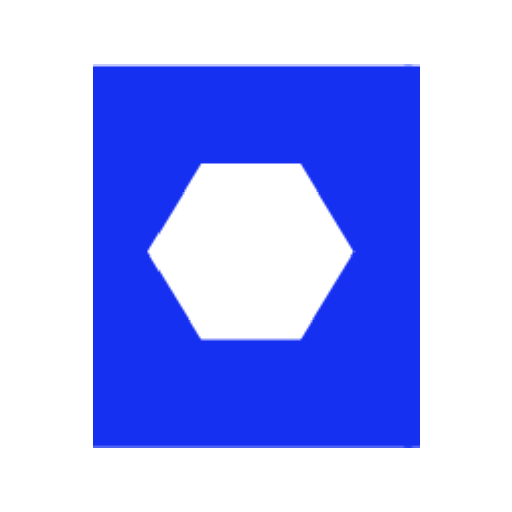
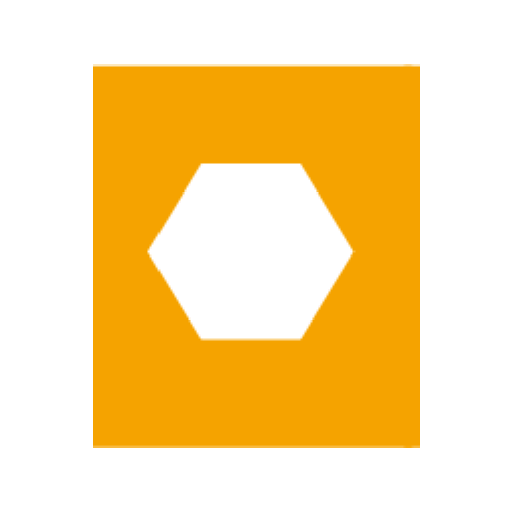
Apply the honey amber colour scheme
- Page: warm cream; text: dark warm brown; accent: honey amber (#F5A300) with dark text on amber buttons
- Chips and highlights in pale amber with dark amber-brown text
- Logo, favicon and app icons recoloured to amber; share cards recoloured
- Fallback poster art in warm tints; amber glow on primary buttons

diff --git a/front/src/app/page.tsx b/front/src/app/page.tsx
@@ -78,12 +78,12 @@ export default async function Home() {
                   <li key={k} className="flex flex-col gap-3 sm:flex-row sm:items-start sm:gap-6">
                     <span className="inline-flex w-fit shrink-0 items-center rounded-2xl bg-chip px-5 py-3 text-lg font-medium text-chip-ink sm:w-36 sm:justify-center">{formatDay(k)}</span>
                     <p className="pt-1 text-lg leading-relaxed">
-                      {list.map((e, i) => <span key={e.id}><Link href={`/events/${e.id}`} className="font-medium transition hover:text-brand hover:underline">{e.title}</Link>{i < list.length - 1 ? ", " : ""}</span>)}
+                      {list.map((e, i) => <span key={e.id}><Link href={`/events/${e.id}`} className="font-medium transition hover:text-chip-ink hover:underline">{e.title}</Link>{i < list.length - 1 ? ", " : ""}</span>)}
                     </p>
                   </li>
                 ))}
               </ul>
-              <div className="mt-8"><Link href="/events" className="inline-flex items-center gap-2 font-semibold text-brand">See the full calendar <ArrowRight className="h-4 w-4" /></Link></div>
+              <div className="mt-8"><Link href="/events" className="inline-flex items-center gap-2 font-semibold text-chip-ink">See the full calendar <ArrowRight className="h-4 w-4" /></Link></div>
             </section>
           </Reveal>
         )}
@@ -102,7 +102,7 @@ export default async function Home() {
         {/* Featured fests */}
         {(fests ?? []).length > 0 && (
           <section className="card p-6 sm:p-10">
-            <div className="mb-6 flex items-end justify-between gap-4"><h2 className="font-display text-3xl font-semibold tracking-tight sm:text-4xl">Fests on HiveOut</h2><Link href="/fests" className="hidden items-center gap-1 font-semibold text-brand sm:flex">All fests <ArrowRight className="h-4 w-4" /></Link></div>
+            <div className="mb-6 flex items-end justify-between gap-4"><h2 className="font-display text-3xl font-semibold tracking-tight sm:text-4xl">Fests on HiveOut</h2><Link href="/fests" className="hidden items-center gap-1 font-semibold text-chip-ink sm:flex">All fests <ArrowRight className="h-4 w-4" /></Link></div>
             <Stagger className="grid grid-cols-2 gap-4 md:grid-cols-3 lg:grid-cols-4">
               {(fests ?? []).slice(0, 8).map((f) => <StaggerItem key={f.id}><FestPoster fest={f} college={collegeName(f.college_id)} /></StaggerItem>)}
             </Stagger>
@@ -118,7 +118,7 @@ export default async function Home() {
             <section className="card overflow-hidden p-6 sm:p-10">
               <h2 className="font-display text-3xl font-semibold tracking-tight sm:text-4xl">Colleges on HiveOut</h2>
               <div className="mt-6"><Marquee items={colleges.map((c) => c.name)} /></div>
-              <div className="mt-6 flex flex-wrap gap-2.5">{colleges.map((c) => <Link key={c.id} href={`/fests?college=${c.id}`} className="inline-flex items-center gap-2 rounded-full bg-wash px-4 py-2 text-sm font-medium transition hover:bg-chip hover:text-chip-ink"><Building2 className="h-4 w-4 text-brand" />{c.name}</Link>)}</div>
+              <div className="mt-6 flex flex-wrap gap-2.5">{colleges.map((c) => <Link key={c.id} href={`/fests?college=${c.id}`} className="inline-flex items-center gap-2 rounded-full bg-wash px-4 py-2 text-sm font-medium transition hover:bg-chip hover:text-chip-ink"><Building2 className="h-4 w-4 text-chip-ink" />{c.name}</Link>)}</div>
             </section>
           </Reveal>
         )}
@@ -135,11 +135,11 @@ export default async function Home() {
                 { name: "City events", price: "Soon", points: ["Concerts and gigs", "Same HiveOut account", "Coming after fests"], cta: "Stay tuned", href: "/events", main: false },
               ].map((p) => (
                 <StaggerItem key={p.name}>
-                  <div className={`flex h-full flex-col rounded-3xl p-7 ${p.main ? "bg-brand text-white shadow-[var(--shadow-glow)]" : "bg-wash"}`}>
-                    <p className={`text-sm font-semibold ${p.main ? "text-white/80" : "text-chip-ink"}`}>{p.name}</p>
+                  <div className={`flex h-full flex-col rounded-3xl p-7 ${p.main ? "bg-brand text-on-brand shadow-[var(--shadow-glow)]" : "bg-wash"}`}>
+                    <p className={`text-sm font-semibold ${p.main ? "text-on-brand/80" : "text-chip-ink"}`}>{p.name}</p>
                     <p className="mt-1 font-display text-5xl font-semibold tracking-tight">{p.price}</p>
-                    <ul className="mt-6 flex-1 space-y-3">{p.points.map((pt) => <li key={pt} className="flex items-center gap-2.5"><Check className={`h-4 w-4 ${p.main ? "text-white" : "text-brand"}`} />{pt}</li>)}</ul>
-                    <Link href={p.href} className={`mt-8 inline-flex h-12 items-center justify-center rounded-full text-[0.9375rem] font-semibold transition active:scale-[0.97] ${p.main ? "bg-white text-brand hover:bg-chip" : "bg-white text-ink shadow-[var(--shadow-card)] hover:bg-chip"}`}>{p.cta}</Link>
+                    <ul className="mt-6 flex-1 space-y-3">{p.points.map((pt) => <li key={pt} className="flex items-center gap-2.5"><Check className={`h-4 w-4 ${p.main ? "text-on-brand" : "text-chip-ink"}`} />{pt}</li>)}</ul>
+                    <Link href={p.href} className={`mt-8 inline-flex h-12 items-center justify-center rounded-full text-[0.9375rem] font-semibold transition active:scale-[0.97] ${p.main ? "bg-white text-chip-ink hover:bg-chip" : "bg-white text-ink shadow-[var(--shadow-card)] hover:bg-chip"}`}>{p.cta}</Link>
                   </div>
                 </StaggerItem>
               ))}
@@ -157,14 +157,14 @@ export default async function Home() {
 
         {/* Final CTA */}
         <Reveal>
-          <section className="dots relative overflow-hidden rounded-[1.5rem] bg-brand px-6 py-16 text-center text-white shadow-[var(--shadow-glow)]">
+          <section className="dots relative overflow-hidden rounded-[1.5rem] bg-brand px-6 py-16 text-center text-on-brand shadow-[var(--shadow-glow)]">
             <div className="absolute inset-0 bg-brand/95" aria-hidden />
             <div className="relative">
               <h2 className="mx-auto max-w-2xl font-display text-4xl font-semibold leading-[1.05] tracking-tight sm:text-6xl">Join us this fest season</h2>
-              <p className="mx-auto mt-4 max-w-md text-lg text-white/80">Get your free pass and never miss an event.</p>
+              <p className="mx-auto mt-4 max-w-md text-lg text-on-brand/80">Get your free pass and never miss an event.</p>
               <div className="mt-8 flex flex-wrap justify-center gap-3">
-                <Link href="/signup" className="inline-flex h-14 items-center rounded-full bg-white px-8 font-semibold text-brand transition hover:bg-chip active:scale-[0.97]">Join free</Link>
-                <Link href="/fests" className="inline-flex h-14 items-center rounded-full bg-white/15 px-8 font-semibold text-white ring-1 ring-white/40 transition hover:bg-white/25 active:scale-[0.97]">Explore fests</Link>
+                <Link href="/signup" className="inline-flex h-14 items-center rounded-full bg-white px-8 font-semibold text-chip-ink transition hover:bg-chip active:scale-[0.97]">Join free</Link>
+                <Link href="/fests" className="inline-flex h-14 items-center rounded-full bg-black/10 px-8 font-semibold text-on-brand ring-1 ring-black/20 transition hover:bg-black/15 active:scale-[0.97]">Explore fests</Link>
               </div>
             </div>
           </section>

diff --git a/front/src/components/shell/TopBar.tsx b/front/src/components/shell/TopBar.tsx
@@ -52,7 +52,7 @@ export function TopBar() {
 
           <nav aria-label="Main" className="relative hidden rounded-full bg-white/80 p-1 shadow-[var(--shadow-card)] backdrop-blur-xl md:flex">
             {NAV.map((l) => (
-              <Link key={l.href} href={l.href} className={`relative rounded-full px-5 py-2 text-sm font-medium transition-colors ${active(l.href) ? "text-brand" : "text-mute hover:text-ink"}`}>
+              <Link key={l.href} href={l.href} className={`relative rounded-full px-5 py-2 text-sm font-medium transition-colors ${active(l.href) ? "text-chip-ink" : "text-mute hover:text-ink"}`}>
                 {active(l.href) && <motion.span layoutId="nav-pill" className="absolute inset-0 rounded-full bg-chip" transition={{ type: "spring", stiffness: 420, damping: 34 }} />}
                 <span className="relative">{l.label}</span>
               </Link>
@@ -63,7 +63,7 @@ export function TopBar() {
             <button onClick={() => setSearch(true)} aria-label="Search" className={round}><Search className="h-[18px] w-[18px]" /></button>
             {loading ? <div className="h-11 w-11" /> : user ? (
               <div className="relative hidden md:block" ref={menuRef}>
-                <button onClick={() => setMenu((v) => !v)} aria-haspopup="menu" aria-expanded={menu} aria-label="Account menu" className="flex h-11 w-11 items-center justify-center rounded-2xl bg-brand text-sm font-semibold text-white shadow-[var(--shadow-glow)] transition active:scale-95">{user.name.trim().charAt(0).toUpperCase()}</button>
+                <button onClick={() => setMenu((v) => !v)} aria-haspopup="menu" aria-expanded={menu} aria-label="Account menu" className="flex h-11 w-11 items-center justify-center rounded-2xl bg-brand text-sm font-semibold text-on-brand shadow-[var(--shadow-glow)] transition active:scale-95">{user.name.trim().charAt(0).toUpperCase()}</button>
                 <AnimatePresence>
                   {menu && (
                     <motion.div role="menu" initial={{ opacity: 0, y: -6, scale: 0.96 }} animate={{ opacity: 1, y: 0, scale: 1 }} exit={{ opacity: 0, y: -6, scale: 0.96 }} transition={{ duration: 0.15 }} style={{ transformOrigin: "top right" }} className="glass absolute right-0 mt-2 w-60 rounded-2xl p-1.5 shadow-[var(--shadow-pop)]">
@@ -90,7 +90,7 @@ export function TopBar() {
         <AnimatePresence>
           {sheet && (
             <motion.div initial={{ opacity: 0, y: -10, scale: 0.98 }} animate={{ opacity: 1, y: 0, scale: 1 }} exit={{ opacity: 0, y: -10, scale: 0.98 }} transition={{ duration: 0.2 }} className="glass mx-auto mt-3 max-w-7xl rounded-3xl p-3 shadow-[var(--shadow-pop)] md:hidden">
-              {NAV.map((l) => <Link key={l.href} href={l.href} className={`block rounded-2xl px-4 py-3.5 text-lg font-medium ${active(l.href) ? "bg-chip text-brand" : ""}`}>{l.label}</Link>)}
+              {NAV.map((l) => <Link key={l.href} href={l.href} className={`block rounded-2xl px-4 py-3.5 text-lg font-medium ${active(l.href) ? "bg-chip text-chip-ink" : ""}`}>{l.label}</Link>)}
               <div className="my-2 border-t border-black/5" />
               {user ? (
                 <>

diff --git a/front/src/app/globals.css b/front/src/app/globals.css
@@ -4,22 +4,23 @@
   --font-sans: var(--font-inter), ui-sans-serif, system-ui, sans-serif;
   --font-display: var(--font-outfit), var(--font-inter), ui-sans-serif, system-ui, sans-serif;
 
-  --color-ink: #1b1a3a;
-  --color-mute: #7a7a8c;
-  --color-fog: #eeeef5;
-  --color-wash: #f4f4fa;
-  --color-brand: #1530f0;
-  --color-brand-deep: #0f24c9;
-  --color-chip: #e3e6fd;
-  --color-chip-ink: #2330c9;
+  --color-ink: #26210f;
+  --color-mute: #756b4a;
+  --color-fog: #fbf5e6;
+  --color-wash: #f8f1de;
+  --color-brand: #f5a300;
+  --color-brand-deep: #dc9000;
+  --color-on-brand: #2a1e00;
+  --color-chip: #ffebb8;
+  --color-chip-ink: #7a4e00;
   --color-mint: #dcf5e7;
-  --color-lilac: #e3e6fd;
+  --color-lilac: #ffebb8;
 
   --radius-card: 1.5rem;
-  --shadow-card: 0 1px 2px rgba(27, 26, 58, 0.04), 0 10px 30px rgba(27, 26, 58, 0.06);
-  --shadow-soft: 0 1px 2px rgba(27, 26, 58, 0.05), 0 6px 18px rgba(27, 26, 58, 0.07);
-  --shadow-pop: 0 24px 60px rgba(27, 26, 58, 0.18);
-  --shadow-glow: 0 10px 30px rgba(21, 48, 240, 0.35);
+  --shadow-card: 0 1px 2px rgba(38, 33, 15, 0.04), 0 10px 30px rgba(38, 33, 15, 0.07);
+  --shadow-soft: 0 1px 2px rgba(38, 33, 15, 0.05), 0 6px 18px rgba(38, 33, 15, 0.08);
+  --shadow-pop: 0 24px 60px rgba(38, 33, 15, 0.2);
+  --shadow-glow: 0 10px 30px rgba(245, 163, 0, 0.4);
 }
 
 html { scroll-behavior: smooth; }
@@ -28,7 +29,7 @@ body { background: var(--color-fog); color: var(--color-ink); font-family: var(-
 
 @layer components {
   .card { background: #fff; border-radius: var(--radius-card); box-shadow: var(--shadow-card); }
-  .dots { background-image: radial-gradient(rgba(27, 26, 58, 0.14) 1.2px, transparent 1.2px); background-size: 22px 22px; }
+  .dots { background-image: radial-gradient(rgba(38, 33, 15, 0.14) 1.2px, transparent 1.2px); background-size: 22px 22px; }
   .glass { background: rgba(255, 255, 255, 0.62); -webkit-backdrop-filter: blur(22px) saturate(170%); backdrop-filter: blur(22px) saturate(170%); border: 1px solid rgba(255, 255, 255, 0.7); }
   .glass-bar { background: rgba(255, 255, 255, 0.72); -webkit-backdrop-filter: blur(24px) saturate(180%); backdrop-filter: blur(24px) saturate(180%); border-bottom: 1px solid rgba(0, 0, 0, 0.06); }
   /* Frosted panel that sits on top of photos and posters */
@@ -37,7 +38,7 @@ body { background: var(--color-fog); color: var(--color-ink); font-family: var(-
   .no-scrollbar { scrollbar-width: none; }
   .no-scrollbar::-webkit-scrollbar { display: none; }
   .field { width: 100%; border-radius: 0.9rem; border: 1px solid rgba(0, 0, 0, 0.12); background: #fff; padding: 0.8rem 1rem; font-size: 0.95rem; outline: none; transition: box-shadow 0.15s, border-color 0.15s; }
-  .field:focus { border-color: var(--color-brand); box-shadow: 0 0 0 4px rgba(21, 48, 240, 0.18); }
+  .field:focus { border-color: var(--color-brand); box-shadow: 0 0 0 4px rgba(245, 163, 0, 0.3); }
   .field::placeholder { color: #9a9aa0; }
 }
 

diff --git a/front/src/app/events/[id]/page.tsx b/front/src/app/events/[id]/page.tsx
@@ -48,7 +48,7 @@ export default async function EventPage({ params }: Props) {
             {event.location && <InfoChip icon={<MapPin className="h-4 w-4" />}>{event.location}</InfoChip>}
           </FadeUp>
           <FadeUp delay={0.08}><h1 className="mt-7 font-display text-5xl font-semibold leading-[1.02] tracking-[-0.03em] sm:text-7xl">{event.title}</h1></FadeUp>
-          {event.fest_slug && <FadeUp delay={0.14}><p className="mt-5 text-lg text-mute">Part of <Link href={`/fest/${event.fest_slug}`} className="font-semibold text-brand hover:underline">{event.fest_name}</Link>{event.college_name ? ` · ${event.college_name}` : ""}</p></FadeUp>}
+          {event.fest_slug && <FadeUp delay={0.14}><p className="mt-5 text-lg text-mute">Part of <Link href={`/fest/${event.fest_slug}`} className="font-semibold text-chip-ink hover:underline">{event.fest_name}</Link>{event.college_name ? ` · ${event.college_name}` : ""}</p></FadeUp>}
           <FadeUp delay={0.2} className="mt-8 flex justify-center"><ShareButtons title={event.title} calendar={{ title: event.title, date: event.date, time: event.time, location: event.location, description: event.description }} /></FadeUp>
         </div>
       </section>
@@ -65,7 +65,7 @@ export default async function EventPage({ params }: Props) {
                   {facts.map(({ icon: Icon, label, value }) => (
                     <div key={label} className="flex items-start gap-3 rounded-2xl bg-wash p-4">
                       <span className="flex h-10 w-10 shrink-0 items-center justify-center rounded-xl bg-chip text-chip-ink"><Icon className="h-4 w-4" /></span>
-                      <div className="min-w-0"><dt className="text-xs font-medium text-mute">{label}</dt><dd className="font-semibold leading-snug">{value}{label === "Venue" && event.location && <a href={mapsLink(event.location, event.college_name)} target="_blank" rel="noopener noreferrer" className="ml-2 text-sm font-medium text-brand underline underline-offset-2">Map</a>}</dd></div>
+                      <div className="min-w-0"><dt className="text-xs font-medium text-mute">{label}</dt><dd className="font-semibold leading-snug">{value}{label === "Venue" && event.location && <a href={mapsLink(event.location, event.college_name)} target="_blank" rel="noopener noreferrer" className="ml-2 text-sm font-medium text-chip-ink underline underline-offset-2">Map</a>}</dd></div>
                     </div>
                   ))}
                 </dl>

diff --git a/front/src/components/EventExplorer.tsx b/front/src/components/EventExplorer.tsx
@@ -55,13 +55,13 @@ export function EventExplorer({ events, initial }: { events: FestEvent[]; initia
       <div className="card mb-5 space-y-4 p-4 sm:p-6">
       <div className="flex items-center gap-3">
         <label className="flex h-14 min-w-0 flex-1 items-center gap-3 rounded-full bg-wash px-5 focus-within:ring-4 focus-within:ring-brand/25">
-          <Search className="h-5 w-5 text-brand" />
+          <Search className="h-5 w-5 text-chip-ink" />
           <input value={q} onChange={(e) => setQ(e.target.value)} placeholder="Search events, venues or fests" aria-label="Search events" className="h-full min-w-0 flex-1 bg-transparent text-base outline-none placeholder:text-neutral-400" />
           {q && <button onClick={() => setQ("")} aria-label="Clear search" className="rounded-full p-1 hover:bg-wash"><X className="h-4 w-4" /></button>}
         </label>
         <div className="flex shrink-0 rounded-full bg-chip p-1" role="group" aria-label="View">
           {([["list", List, "List view"], ["grid", LayoutGrid, "Poster view"]] as const).map(([v, Icon, label]) => (
-            <button key={v} onClick={() => setView(v)} aria-pressed={view === v} aria-label={label} className={`flex h-10 w-10 items-center justify-center rounded-full transition sm:h-12 sm:w-12 ${view === v ? "bg-white text-brand shadow-[var(--shadow-card)]" : "text-chip-ink/70"}`}><Icon className="h-5 w-5" /></button>
+            <button key={v} onClick={() => setView(v)} aria-pressed={view === v} aria-label={label} className={`flex h-10 w-10 items-center justify-center rounded-full transition sm:h-12 sm:w-12 ${view === v ? "bg-white text-chip-ink shadow-[var(--shadow-card)]" : "text-chip-ink/70"}`}><Icon className="h-5 w-5" /></button>
           ))}
         </div>
       </div>
@@ -76,7 +76,7 @@ export function EventExplorer({ events, initial }: { events: FestEvent[]; initia
 
       <p className="mb-5 mt-6 text-sm text-mute" aria-live="polite">
         {shown.length} event{shown.length === 1 ? "" : "s"}{date ? ` on ${formatLongDay(date)}` : ""}
-        {active && <button onClick={clear} className="ml-3 font-semibold text-brand underline underline-offset-4">Clear filters</button>}
+        {active && <button onClick={clear} className="ml-3 font-semibold text-chip-ink underline underline-offset-4">Clear filters</button>}
       </p>
 
       {shown.length === 0 ? (

diff --git a/front/src/components/AuthForm.tsx b/front/src/components/AuthForm.tsx
@@ -40,13 +40,13 @@ export function AuthForm({ mode, next }: { mode: "login" | "signup"; next?: stri
 
   return (
     <div className="mx-auto grid min-h-[calc(100vh-4rem)] max-w-7xl gap-6 px-5 py-6 sm:px-8 lg:grid-cols-2">
-      <motion.aside initial={{ opacity: 0, x: -20 }} animate={{ opacity: 1, x: 0 }} transition={{ duration: 0.6 }} className="relative hidden overflow-hidden rounded-[2rem] bg-gradient-to-br from-brand via-blue-600 to-indigo-500 p-12 lg:flex lg:flex-col lg:justify-between">
+      <motion.aside initial={{ opacity: 0, x: -20 }} animate={{ opacity: 1, x: 0 }} transition={{ duration: 0.6 }} className="relative hidden overflow-hidden rounded-[2rem] bg-gradient-to-br from-brand via-amber-400 to-orange-300 p-12 lg:flex lg:flex-col lg:justify-between">
         <svg className="absolute -right-16 -top-16 h-96 w-96 opacity-20" viewBox="0 0 100 115" aria-hidden><path d="M50 4 94 29v57L50 111 6 86V29z" fill="none" stroke="#fff" strokeWidth="2" /><path d="M50 24 76 39v37L50 91 24 76V39z" fill="none" stroke="#fff" strokeWidth="2" /></svg>
         <svg className="absolute -bottom-20 -left-10 h-80 w-80 opacity-20" viewBox="0 0 100 115" aria-hidden><path d="M50 4 94 29v57L50 111 6 86V29z" fill="#fff" /></svg>
-        <p className="relative text-sm font-semibold text-white/80">HiveOut</p>
+        <p className="relative text-sm font-semibold text-on-brand/80">HiveOut</p>
         <div className="relative">
-          <h2 className="font-display text-5xl font-bold leading-[1.02] tracking-[-0.02em] text-white">Your fest season starts here.</h2>
-          <ul className="mt-8 space-y-4">{PERKS.map(({ icon: Icon, text }) => <li key={text} className="flex items-center gap-3 font-medium text-white"><span className="flex h-10 w-10 items-center justify-center rounded-xl bg-white/20"><Icon className="h-5 w-5" /></span>{text}</li>)}</ul>
+          <h2 className="font-display text-5xl font-bold leading-[1.02] tracking-[-0.02em] text-on-brand">Your fest season starts here.</h2>
+          <ul className="mt-8 space-y-4">{PERKS.map(({ icon: Icon, text }) => <li key={text} className="flex items-center gap-3 font-medium text-on-brand"><span className="flex h-10 w-10 items-center justify-center rounded-xl bg-white/40"><Icon className="h-5 w-5" /></span>{text}</li>)}</ul>
         </div>
       </motion.aside>
 

diff --git a/front/src/components/EntryPassPanel.tsx b/front/src/components/EntryPassPanel.tsx
@@ -30,19 +30,19 @@ export function EntryPassPanel({ slug, name, isLive }: { slug: string; name: str
   };
 
   return (
-    <div id="pass" className="rounded-3xl bg-brand p-8 text-white shadow-[var(--shadow-glow)] sm:p-10">
-      <p className="text-sm font-semibold text-white/80">Fest pass</p>
+    <div id="pass" className="rounded-3xl bg-brand p-8 text-on-brand shadow-[var(--shadow-glow)] sm:p-10">
+      <p className="text-sm font-semibold text-on-brand/80">Fest pass</p>
       <p className="mt-1 font-display text-6xl font-semibold tracking-tight">Free</p>
-      <p className="mt-2 text-white/80">{name}</p>
+      <p className="mt-2 text-on-brand/80">{name}</p>
       <ul className="mt-6 space-y-3">{["Entry to the fest with a QR code", "Register for any event", "Keep every pass in one place"].map((t) => <li key={t} className="flex items-center gap-2.5"><Check className="h-4 w-4" />{t}</li>)}</ul>
       <div className="mt-8 space-y-3">
         <ErrorNote>{error}</ErrorNote>
         {loading ? <div className="h-14 animate-pulse rounded-full bg-white/20" /> : pass ? (
-          <Button href="/my-passes" variant="outline" size="lg" className="w-full !text-brand">You have your pass. View it</Button>
+          <Button href="/my-passes" variant="outline" size="lg" className="w-full !text-chip-ink">You have your pass. View it</Button>
         ) : user ? (
-          <Button onClick={claim} disabled={busy} variant="outline" size="lg" className="w-full !text-brand">{busy ? "Getting pass…" : "Get my free pass"}</Button>
+          <Button onClick={claim} disabled={busy} variant="outline" size="lg" className="w-full !text-chip-ink">{busy ? "Getting pass…" : "Get my free pass"}</Button>
         ) : (
-          <Button href={`/login?next=${encodeURIComponent(`/fest/${slug}`)}`} variant="outline" size="lg" className="w-full !text-brand">Sign in to get it</Button>
+          <Button href={`/login?next=${encodeURIComponent(`/fest/${slug}`)}`} variant="outline" size="lg" className="w-full !text-chip-ink">Sign in to get it</Button>
         )}
       </div>
     </div>

diff --git a/front/src/app/fest/[slug]/page.tsx b/front/src/app/fest/[slug]/page.tsx
@@ -48,7 +48,7 @@ export default async function FestPage({ params }: Props) {
           <FadeUp delay={0.08}><h1 className="mt-7 font-display text-5xl font-semibold leading-[1.02] tracking-[-0.03em] sm:text-7xl lg:text-8xl">{fest.name}</h1></FadeUp>
           {fest.tagline && <FadeUp delay={0.14}><p className="mx-auto mt-5 max-w-xl text-lg leading-relaxed text-mute">{fest.tagline}</p></FadeUp>}
           <FadeUp delay={0.2} className="mt-8 flex flex-wrap items-center justify-center gap-3">
-            {fest.status === "live" && <a href="#pass" className="inline-flex h-14 items-center gap-3 rounded-full bg-brand px-8 text-base font-semibold text-white shadow-[var(--shadow-glow)] transition hover:bg-brand-deep active:scale-[0.97]">Get your pass <Ticket className="h-5 w-5" /></a>}
+            {fest.status === "live" && <a href="#pass" className="inline-flex h-14 items-center gap-3 rounded-full bg-brand px-8 text-base font-semibold text-on-brand shadow-[var(--shadow-glow)] transition hover:bg-brand-deep active:scale-[0.97]">Get your pass <Ticket className="h-5 w-5" /></a>}
             <ShareButtons title={fest.name} />
           </FadeUp>
         </div>
@@ -71,7 +71,7 @@ export default async function FestPage({ params }: Props) {
               {venues.length === 0 ? <p className="mt-3 text-mute">Venues will be announced with the programme.</p> : (
                 <ul className="mt-5 space-y-3">{venues.map((v) => <li key={v} className="flex items-center gap-3 rounded-2xl bg-wash px-4 py-3"><span className="flex h-9 w-9 items-center justify-center rounded-xl bg-chip text-chip-ink"><MapPin className="h-4 w-4" /></span><span className="font-medium">{v}</span></li>)}</ul>
               )}
-              <p className="mt-6 text-sm text-mute">Part of the <Link href="/fests" className="font-semibold text-brand">HiveOut</Link> fest network.</p>
+              <p className="mt-6 text-sm text-mute">Part of the <Link href="/fests" className="font-semibold text-chip-ink">HiveOut</Link> fest network.</p>
             </div>
           </Reveal>
         </div>

diff --git a/front/src/components/DateStrip.tsx b/front/src/components/DateStrip.tsx
@@ -17,12 +17,12 @@ export function DateStrip({ value, onSelect, days = 14 }: { value?: string | nul
         const inner = (
           <>
             {on && <motion.span layoutId="date-pill" className="absolute inset-0 rounded-2xl bg-brand shadow-[var(--shadow-glow)]" transition={{ type: "spring", stiffness: 420, damping: 34 }} />}
-            <span className={`relative text-[11px] font-bold uppercase tracking-wider ${on ? "text-white/80" : "text-chip-ink/70"}`}>{i === 0 ? "Today" : d.toLocaleDateString("en-IN", { weekday: "short" })}</span>
-            <span className={`relative font-display text-2xl font-bold leading-none ${on ? "text-white" : "text-chip-ink"}`}>{d.getDate()}</span>
-            <span className={`relative text-[11px] font-medium ${on ? "text-white/80" : "text-chip-ink/70"}`}>{d.toLocaleDateString("en-IN", { month: "short" })}</span>
+            <span className={`relative text-[11px] font-bold uppercase tracking-wider ${on ? "text-on-brand/70" : "text-chip-ink/70"}`}>{i === 0 ? "Today" : d.toLocaleDateString("en-IN", { weekday: "short" })}</span>
+            <span className={`relative font-display text-2xl font-bold leading-none ${on ? "text-on-brand" : "text-chip-ink"}`}>{d.getDate()}</span>
+            <span className={`relative text-[11px] font-medium ${on ? "text-on-brand/70" : "text-chip-ink/70"}`}>{d.toLocaleDateString("en-IN", { month: "short" })}</span>
           </>
         );
-        const cls = "relative flex h-[5.25rem] w-[4.25rem] shrink-0 flex-col items-center justify-center gap-0.5 rounded-2xl bg-chip transition hover:bg-blue-100";
+        const cls = "relative flex h-[5.25rem] w-[4.25rem] shrink-0 flex-col items-center justify-center gap-0.5 rounded-2xl bg-chip transition hover:bg-amber-100";
         return onSelect ? (
           <button key={k} onClick={() => onSelect(on ? null : k)} aria-pressed={on} className={cls}>{inner}</button>
         ) : (

diff --git a/front/src/lib/og.tsx b/front/src/lib/og.tsx
@@ -6,13 +6,13 @@ export const ogSize = { width: 1200, height: 630 };
 export function ogCard({ eyebrow, title, line1, line2 }: { eyebrow: string; title: string; line1?: string; line2?: string }) {
   return new ImageResponse(
     (
-      <div style={{ width: "100%", height: "100%", display: "flex", flexDirection: "column", justifyContent: "space-between", padding: 72, background: "linear-gradient(135deg,#eeeef5 0%,#ffffff 55%,#e3e6fd 100%)", color: "#1b1a3a" }}>
+      <div style={{ width: "100%", height: "100%", display: "flex", flexDirection: "column", justifyContent: "space-between", padding: 72, background: "linear-gradient(135deg,#fbf5e6 0%,#ffffff 55%,#ffebb8 100%)", color: "#26210f" }}>
         <div style={{ display: "flex", alignItems: "center", gap: 16 }}>
-          <div style={{ width: 22, height: 22, background: "#1530f0", borderRadius: 6, transform: "rotate(45deg)" }} />
+          <div style={{ width: 22, height: 22, background: "#f5a300", borderRadius: 6, transform: "rotate(45deg)" }} />
           <div style={{ fontSize: 34, fontWeight: 800, letterSpacing: -1 }}>hiveout</div>
         </div>
         <div style={{ display: "flex", flexDirection: "column" }}>
-          <div style={{ fontSize: 28, fontWeight: 700, color: "#2330c9", textTransform: "uppercase", letterSpacing: 4 }}>{eyebrow}</div>
+          <div style={{ fontSize: 28, fontWeight: 700, color: "#7a4e00", textTransform: "uppercase", letterSpacing: 4 }}>{eyebrow}</div>
           <div style={{ fontSize: title.length > 40 ? 64 : 84, fontWeight: 900, lineHeight: 1.05, letterSpacing: -2, marginTop: 16, display: "flex" }}>{title}</div>
         </div>
         <div style={{ display: "flex", flexDirection: "column", fontSize: 32, color: "#555", gap: 8 }}>

diff --git a/front/src/components/home/HeroShowcase.tsx b/front/src/components/home/HeroShowcase.tsx
@@ -42,8 +42,8 @@ export function HeroShowcase({ photo }: { photo: { id: number; title: string; im
           <p className="mx-auto mt-6 max-w-xl text-lg leading-relaxed text-mute">Find what is happening, register in seconds and walk in with a QR pass. Free for students and committees.</p>
         </FadeUp>
         <FadeUp delay={0.24} className="mt-9 flex flex-wrap items-center justify-center gap-3">
-          <Link href="/fests" className="inline-flex h-14 items-center gap-3 rounded-full bg-brand px-8 text-base font-semibold text-white shadow-[var(--shadow-glow)] transition hover:bg-brand-deep active:scale-[0.97]">Explore fests <Ticket className="h-5 w-5" /></Link>
-          <Link href="/events" className="inline-flex h-14 items-center gap-3 rounded-full bg-white px-8 text-base font-semibold text-ink shadow-[var(--shadow-card)] transition hover:bg-wash active:scale-[0.97]">Browse events <CalendarDays className="h-5 w-5 text-brand" /></Link>
+          <Link href="/fests" className="inline-flex h-14 items-center gap-3 rounded-full bg-brand px-8 text-base font-semibold text-on-brand shadow-[var(--shadow-glow)] transition hover:bg-brand-deep active:scale-[0.97]">Explore fests <Ticket className="h-5 w-5" /></Link>
+          <Link href="/events" className="inline-flex h-14 items-center gap-3 rounded-full bg-white px-8 text-base font-semibold text-ink shadow-[var(--shadow-card)] transition hover:bg-wash active:scale-[0.97]">Browse events <CalendarDays className="h-5 w-5 text-chip-ink" /></Link>
         </FadeUp>
       </div>
     </section>

diff --git a/front/src/components/committee/EventsTab.tsx b/front/src/components/committee/EventsTab.tsx
@@ -91,7 +91,7 @@ function EventForm({ fest, event, onSaved, onCancel }: { fest: Fest; event: Mana
 
       <div className="space-y-4 rounded-2xl bg-black/[0.03] p-4">
         <label className="flex items-center gap-3 text-sm font-medium">
-          <input type="checkbox" className="h-4 w-4 accent-[#1530f0]" checked={form.requires_registration} disabled={locked} onChange={(e) => set("requires_registration", e.target.checked)} />
+          <input type="checkbox" className="h-4 w-4 accent-[#f5a300]" checked={form.requires_registration} disabled={locked} onChange={(e) => set("requires_registration", e.target.checked)} />
           Students must register for this event
         </label>
         {locked && <p className="text-xs text-neutral-500">Registration settings are locked because people have already registered.</p>}
@@ -107,7 +107,7 @@ function EventForm({ fest, event, onSaved, onCancel }: { fest: Fest; event: Mana
           </div>
         )}
         <label className="flex items-center gap-3 text-sm font-medium">
-          <input type="checkbox" className="h-4 w-4 accent-[#1530f0]" checked={form.paid} disabled={locked} onChange={(e) => set("paid", e.target.checked)} />
+          <input type="checkbox" className="h-4 w-4 accent-[#f5a300]" checked={form.paid} disabled={locked} onChange={(e) => set("paid", e.target.checked)} />
           Paid event
         </label>
         {form.paid && (
